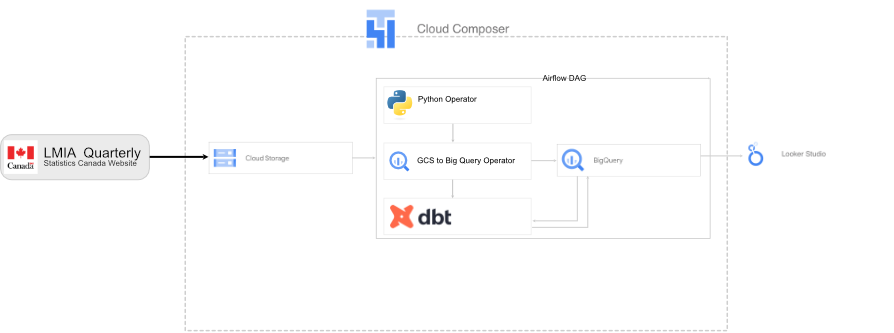
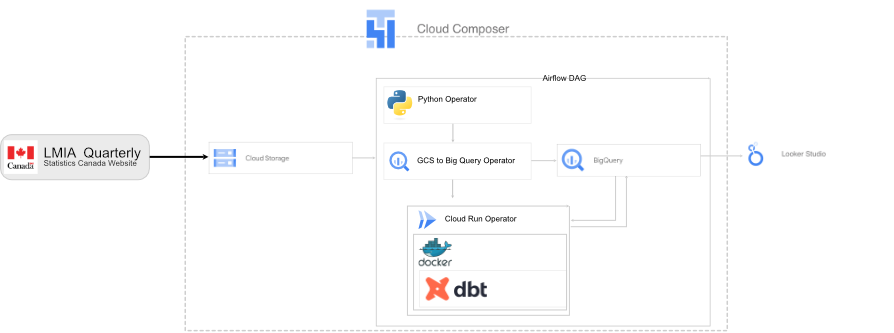
final few changes to dag

Changed region(s): [[0.4228, 0.6006, 0.6946, 0.961], [0.604, 0.9009, 0.6342, 0.9309], [0.604, 0.6006, 0.6342, 0.6306]]

diff --git a/lmia.py b/lmia.py
@@ -32,22 +32,25 @@ def load_files():
         .assign(period = "2024-Q"+ str(quarter))
                 .to_csv(bucket + f'transformed_csv/lmia_q{quarter}.csv', index = False))
 
+    def load_tg():
+        with TaskGroup('load_data') as raw:
+            for quarter in range(1,4):
+                get_raw = get_raw_file.override(task_id = f'get_raw_q{quarter}')(quarter)
+                load_csv_to_bq = GCSToBigQueryOperator(
+                    task_id = f"load_csv_to_bq_q{quarter}",
+                    bucket = Variable.get('test_gs_bucket'),
+                    source_objects = f'transformed_csv/lmia_q{quarter}.csv',
+                    destination_project_dataset_table = 'lmia.lmia_applications_raw',
+                    source_format = 'csv',
+                    write_disposition = 'WRITE_APPEND',
+                    autodetect = True # being explicit here although this is true by default as per docs
+                )
+                get_raw  >> load_csv_to_bq
+    run_dbt = CloudRunExecuteJobOperator(
+        project_id = "durable-bond-447600-a5",
+        region = "us-central1",
+        job_name = "dbt-run"
+    )
+    load_tg >> run_dbt
 
-    with TaskGroup('load_data') as raw:
-        for quarter in range(1,4):
-            get_raw = get_raw_file.override(task_id = f'get_raw_q{quarter}')(quarter)
-            load_csv_to_bq = GCSToBigQueryOperator(
-                task_id = f"load_csv_to_bq_q{quarter}",
-                bucket = Variable.get('test_gs_bucket'),
-                source_objects = f'transformed_csv/lmia_q{quarter}.csv',
-                destination_project_dataset_table = 'lmia.lmia_applications_raw',
-                source_format = 'csv',
-                write_disposition = 'WRITE_APPEND',
-                autodetect = True # being explicit here although this is true by default as per docs
-            )
-            get_raw  >> load_csv_to_bq
-        run_dbt = CloudRunExecuteJobOperator(
-            project_id = ""
-
-        )
 load_files() 
